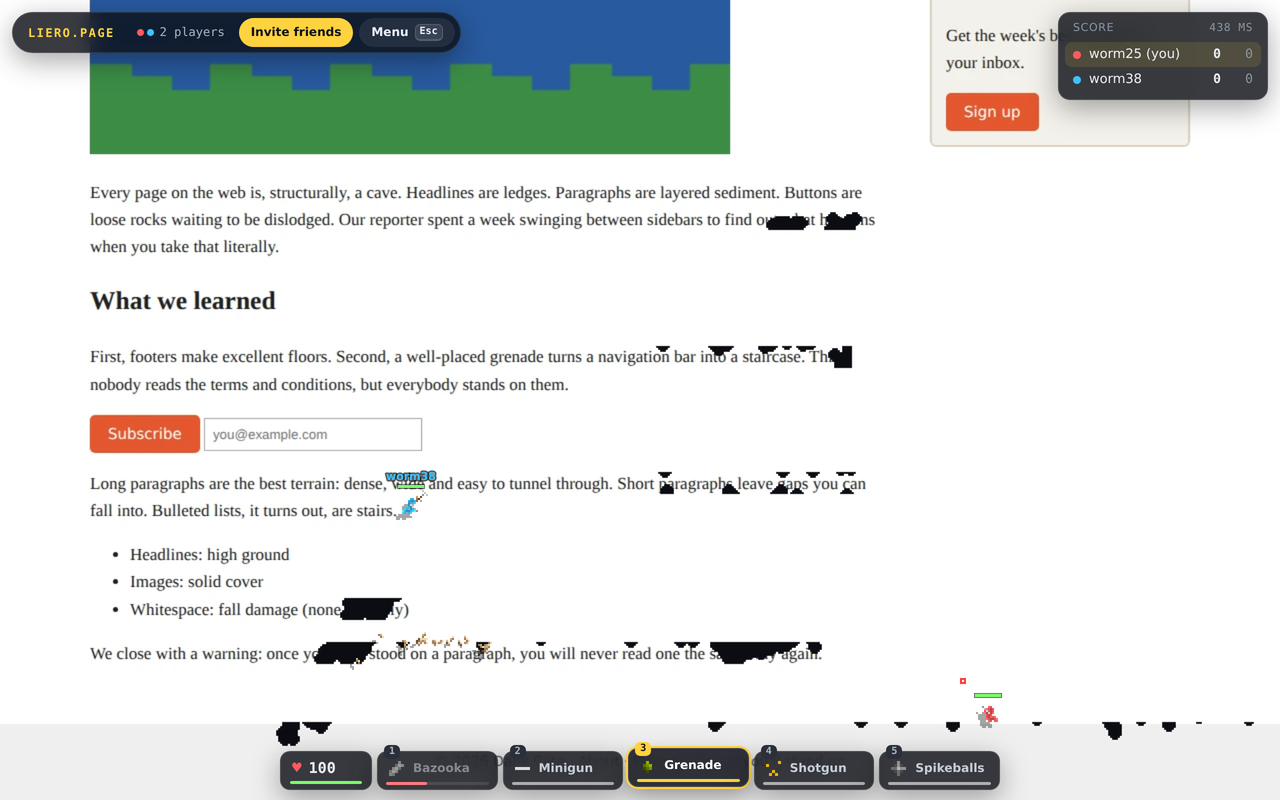
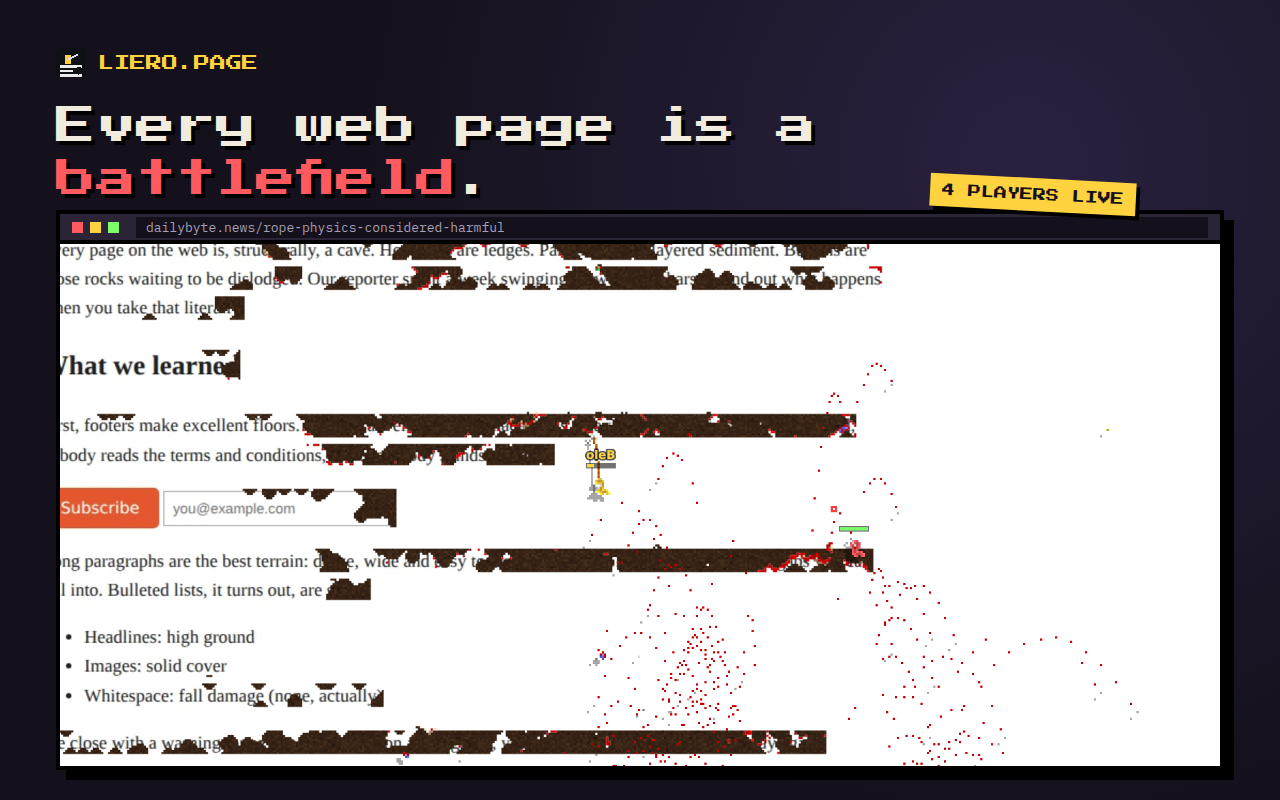
New store art, earth-style craters

diff --git a/extension/src/game/render.ts b/extension/src/game/render.ts
@@ -139,6 +139,27 @@ export class Renderer {
     this.edgex.putImageData(img, 0, 0, x0, y0, x1 - x0 + 1, y1 - y0 + 1);
   }
 
+  private earthPat: CanvasPattern | null = null;
+  /** A tiling patch of dark earth (1 texel per world pixel), in the browns of Liero's dug-out dirt. */
+  private earth(): CanvasPattern {
+    if (this.earthPat) return this.earthPat;
+    const n = 64, c = document.createElement('canvas');
+    c.width = n; c.height = n;
+    const x = c.getContext('2d')!, img = x.createImageData(n, n);
+    const tones = [[54, 34, 20], [62, 40, 24], [47, 29, 17], [70, 46, 27], [40, 25, 15]];
+    let seed = 12345;
+    const rnd = () => ((seed = (seed * 1103515245 + 12345) >>> 0) >>> 8) / 16777216;
+    for (let i = 0; i < n * n; i++) {
+      // Clumpy noise: mostly the base tone, with specks and small pebbles.
+      const v = rnd();
+      const t = v < 0.55 ? tones[0] : v < 0.8 ? tones[1] : v < 0.92 ? tones[2] : v < 0.98 ? tones[3] : tones[4];
+      img.data.set([t[0], t[1], t[2], 255], i * 4);
+    }
+    x.putImageData(img, 0, 0);
+    this.earthPat = this.ctx.createPattern(c, 'repeat')!;
+    return this.earthPat;
+  }
+
   private r(n: number) { this.rnd = (this.rnd * 1103515245 + 12345) >>> 0; return (this.rnd >>> 8) % n; }
 
   private pixel(x: number, y: number, color: string, shadow: boolean) {
@@ -196,6 +217,12 @@ export class Renderer {
 
     if (this.fg && this.bg && this.terrain) {
       const t = this.terrain;
+      // Behind the page: Liero-style earth, so craters look dug into the ground instead of blacked out.
+      ctx.save();
+      ctx.imageSmoothingEnabled = false;
+      ctx.fillStyle = this.earth();
+      ctx.fillRect(0, 0, t.w, t.h);
+      ctx.restore();
       ctx.drawImage(this.bg, 0, 0, t.w, t.h);
       ctx.drawImage(this.fg, 0, 0, t.w, t.h);
       if (this.edge && f.outline > 0.01) {
